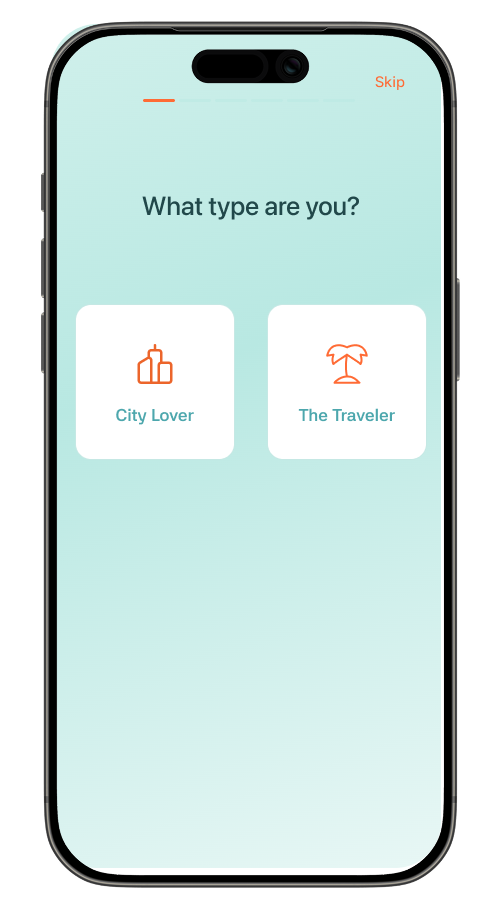
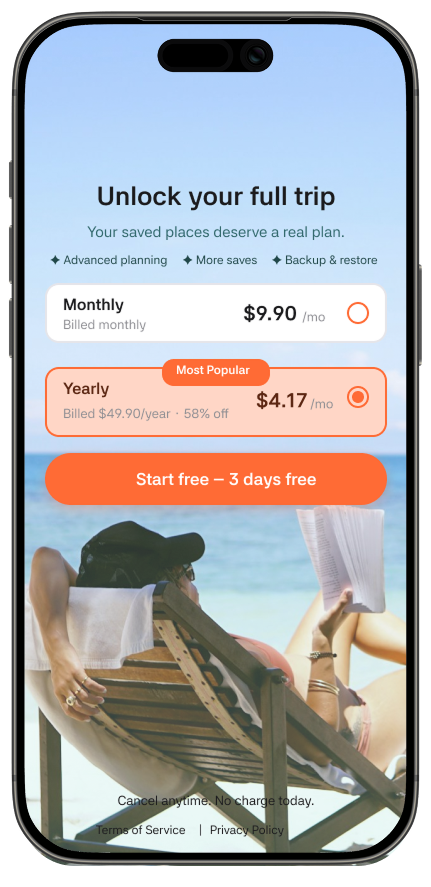
Update VOYA cover image, fix headings and navigation
- VOYA: updated cover image, shortened headings, fixed screen layout, cache bust on cover
- AdoptMe: updated problem heading, fixed next project link order
- Waze: updated hero subtitle

diff --git a/public/adopt-a-mentor.html b/public/adopt-a-mentor.html
@@ -646,7 +646,7 @@
         <div class="meta-row">
           <div class="meta-item"><div class="meta-label">Role</div><div class="meta-value">UX / UI Designer</div></div>
           <div class="meta-item"><div class="meta-label">Type</div><div class="meta-value">Web → Mobile</div></div>
-<div class="meta-item"><div class="meta-label">Deliverable</div><div class="meta-value">Feature Design</div></div>
+          <div class="meta-item"><div class="meta-label">Deliverable</div><div class="meta-value">Feature Design</div></div>
         </div>
       </div>
       <div class="hero-image">

diff --git a/src/App.jsx b/src/App.jsx
@@ -22,7 +22,7 @@ const PROJECTS = [
     imageRight: true,
     renderImage: () => (
       <div className="proj-img-container">
-        <img src="/images/voya/cover.png" className="proj-img-voya-phone" alt="" />
+        <img src="/images/voya/cover.png?v=2" className="proj-img-voya-phone" alt="" />
       </div>
     ),
   },

diff --git a/public/voya.html b/public/voya.html
@@ -415,7 +415,7 @@
         </div>
       </div>
       <div class="hero-image">
-        <img src="images/voya/cover.png" alt="VOYA onboarding screens" />
+        <img src="images/voya/cover.png?v=2" alt="VOYA onboarding screens" />
       </div>
     </div>
   </section>
